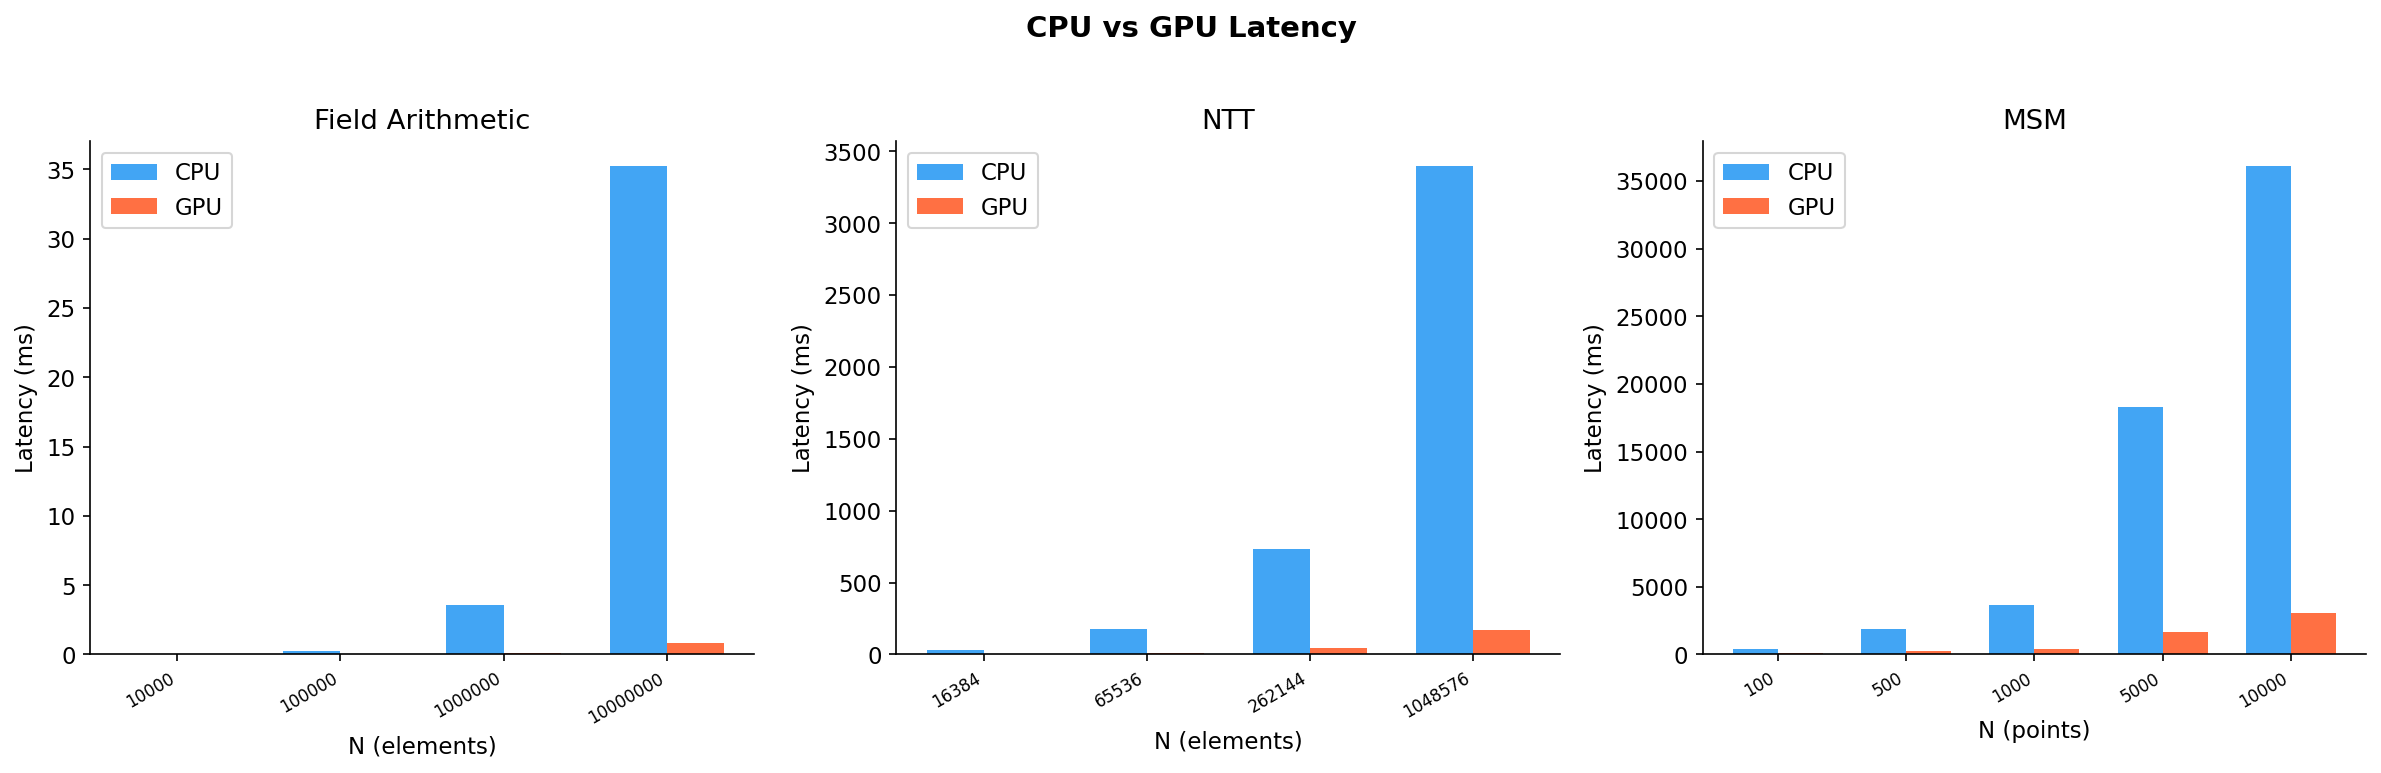
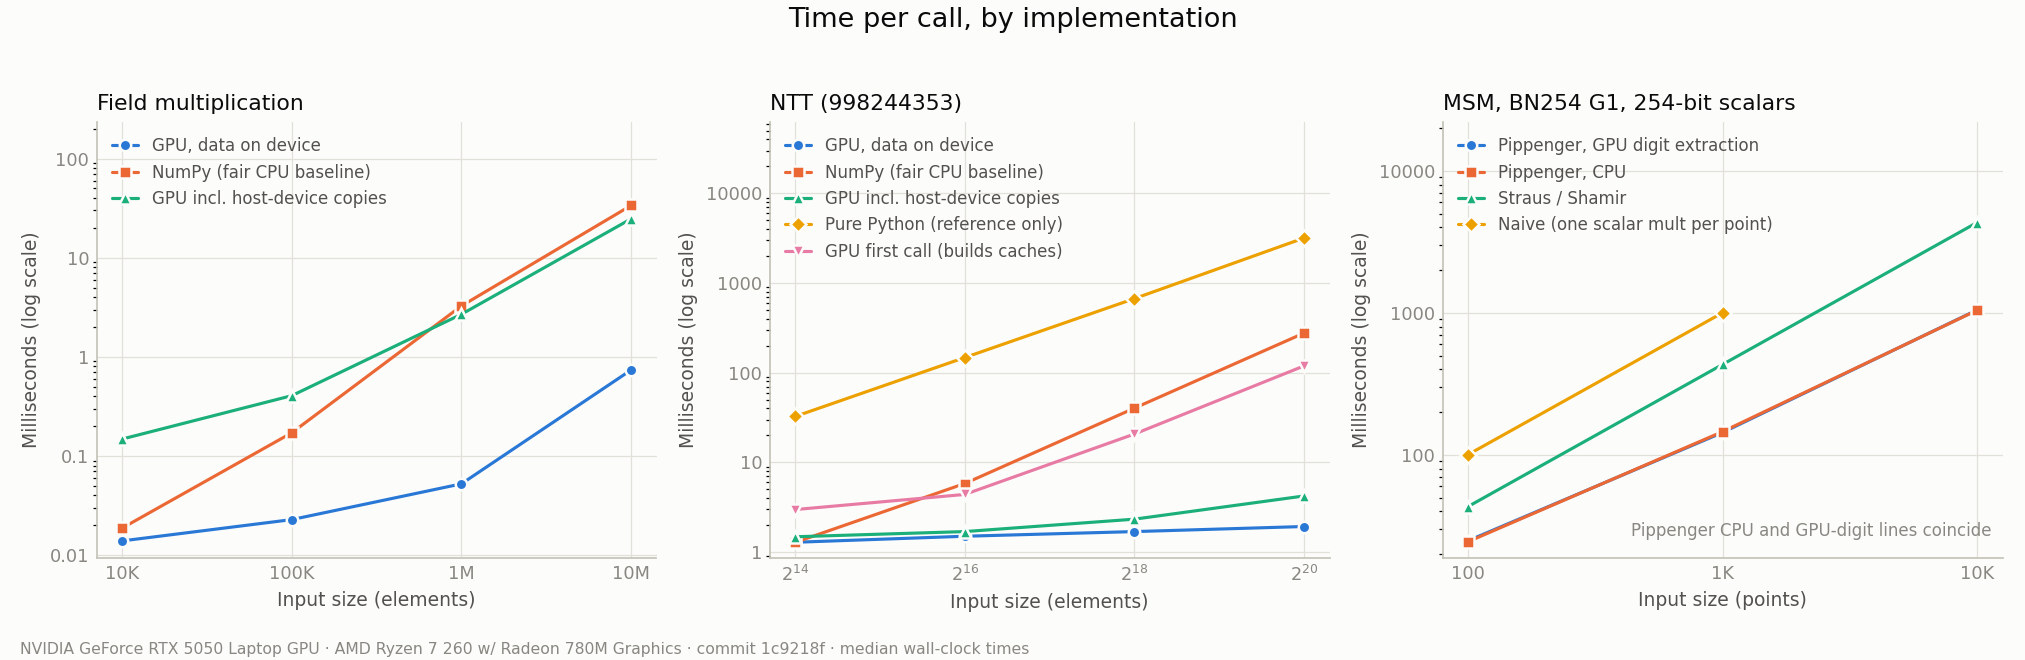
publish verified benchmark results and rewrite README claims
- Full benchmark run at 1c9218f (clean tree, AC power) committed:
  results/all_results.json plus latency and speedup charts in light and
  dark, switched by GitHub theme with <picture>
- README headline and benchmark tables generated from the JSON: NTT 2^20
  143.5x (65.5x incl. copies), field 10M 45.7x (1.4x), MSM GPU
  contribution 1.0x; run-to-run variation stated
- Old claims removed (NTT 20x, "GPU" MSM 12x, "up to 45x"); new Scope
  and limits section: 64-bit kernels only, MSM gains are algorithmic,
  NumPy is fair but not the fastest CPU code
- Unsourced prover-time percentages replaced; stale notes fixed (Straus
  2.3x, benchmarking method, project tree)
- Charts: legend headroom and label backing fix two collisions; stale
  throughput.png deleted
- run_all writes LF JSON on every OS, matching .gitattributes

diff --git a/benchmarks/plot_results.py b/benchmarks/plot_results.py
@@ -143,10 +143,19 @@ def _set_size_ticks(ax: Axes, sizes: list[int], bench: str) -> None:
     ax.xaxis.set_minor_locator(NullLocator())
 
 
-def _legend(ax: Axes, theme: dict[str, Any]) -> None:
+def _series_count(ax: Axes) -> int:
     # Count data series only: reference lines carry matplotlib's "_child" labels
-    series = [line for line in ax.get_lines() if not line.get_label().startswith("_")]
-    if len(series) >= 2:  # one series needs no legend: the panel title names it
+    return sum(not line.get_label().startswith("_") for line in ax.get_lines())
+
+
+def _legend_headroom(ax: Axes, entries: int) -> None:
+    """Raise a log y-axis's top so an upper-left legend of *entries* rows clears the data."""
+    lo, hi = ax.get_ylim()
+    ax.set_ylim(lo, hi * (hi / lo) ** (0.06 * entries))
+
+
+def _legend(ax: Axes, theme: dict[str, Any]) -> None:
+    if _series_count(ax) >= 2:  # one series needs no legend: the panel title names it
         leg = ax.legend(loc="upper left", frameon=False, fontsize=8, handlelength=1.6)
         for text in leg.get_texts():
             text.set_color(theme["ink_secondary"])
@@ -200,6 +209,8 @@ def plot_latency(results: dict[str, Any], theme: dict[str, Any]) -> Any:
         if sizes:
             _set_size_ticks(ax, sizes, bench)
         ax.set_yscale("log")
+        if _series_count(ax) >= 2:
+            _legend_headroom(ax, _series_count(ax))
         ax.yaxis.set_major_locator(LogLocator(base=10))
         ax.yaxis.set_minor_formatter(NullFormatter())
         ax.yaxis.set_major_formatter(FuncFormatter(lambda v, _: f"{v:g}"))
@@ -284,6 +295,8 @@ def _direct_label_endpoints(ax: Axes, theme: dict[str, Any], plotted: list[list[
             va="center",
             fontsize=8,
             color=theme["ink_secondary"],
+            # A ~1x end sits on the 1x reference line; the backing keeps the line out of the text
+            bbox={"boxstyle": "square,pad=0.15", "facecolor": theme["surface"], "edgecolor": "none"},
         )
 
 

diff --git a/benchmarks/run_all.py b/benchmarks/run_all.py
@@ -38,7 +38,8 @@ def run(*, quick: bool, output: Path) -> dict[str, Any]:
         print(f"    done in {time.perf_counter() - t0:.1f} s")
 
     output.parent.mkdir(parents=True, exist_ok=True)
-    output.write_text(json.dumps(results, indent=2) + "\n", encoding="utf-8")
+    # newline="\n": the same bytes on every OS, matching .gitattributes (eol=lf)
+    output.write_text(json.dumps(results, indent=2) + "\n", encoding="utf-8", newline="\n")
     print_summary(results)
     print(f"\nResults saved to {output}")
     return results

diff --git a/README.md b/README.md
@@ -5,36 +5,47 @@
 [![License: MIT](https://img.shields.io/badge/License-MIT-yellow.svg)](LICENSE)
 
 
-> GPU-accelerated primitives for Zero-Knowledge proof generation (NTT + MSM) using NVIDIA CUDA via CuPy.
+> The building blocks of a zero-knowledge prover (BN254 field and curve arithmetic, NTT, MSM) in Python, with CUDA kernels (via CuPy) for modular arithmetic and the NTT, and benchmarks that measure what the GPU actually buys.
 
-![Speedup curve](results/speedup_curve.png)
-![Latency comparison](results/latency_comparison.png)
-![Throughput](results/throughput.png)
+<picture>
+  <source media="(prefers-color-scheme: dark)" srcset="results/speedup_curve_dark.png">
+  <img alt="GPU speedup over CPU code running the same algorithm. Field multiplication: 45.7x with data on the GPU, 1.4x including copies, at 10M elements. NTT: 143.5x and 65.5x at 2^20. MSM Pippenger: 1.0x at every size." src="results/speedup_curve.png">
+</picture>
 
 ---
 
 ## What this does
 
-Accelerates the two most expensive operations in ZK proof generation using NVIDIA CUDA, achieving **up to 45x speedup** over pure CPU:
+The two most expensive steps of a Groth16 or PLONK prover are the MSM and the NTT. This project implements both, plus the field arithmetic underneath them. It also measures each GPU path against CPU code that runs the same algorithm, and checks every result.
 
-| Operation | ZK Usage | CPU Algorithm | GPU Algorithm | Peak Speedup |
-|---|---|---|---|---|
-| **NTT** | Polynomial multiplication (PLONK, Groth16) | Cooley-Tukey iterative | Parallel butterfly (CuPy kernel) | **20x** |
-| **MSM** | Linear combinations of EC points (Groth16) | Naive (per-point double-and-add) | Pippenger (CPU buckets) + GPU window extraction | **12x** |
-| **Field** | Modular arithmetic building block | NumPy vectorized | CuPy ElementwiseKernel | **45x** |
+| Operation | ZK usage | What runs on the GPU | GPU speedup at the largest size measured |
+|---|---|---|---|
+| **Field multiplication** | Building block of everything else | The whole operation (CuPy kernel), for moduli below 2⁶³ | **45.7x** with data on the GPU, **1.4x** including copies (10M elements) |
+| **NTT** | Polynomial arithmetic (Groth16, PLONK) | Every butterfly stage, for moduli below 2⁶³ | **143.5x** with data on the GPU, **65.5x** including copies (2²⁰ elements) |
+| **MSM**, BN254 G1 | Groth16's linear combinations of curve points | Only the window-digit extraction | **1.0x** (10,000 points); all curve arithmetic is Python on the CPU |
 
-Tested on: **NVIDIA GeForce RTX 5050 Laptop GPU** (Compute Capability 12.0, 8 GB VRAM)
+Measured on an NVIDIA GeForce RTX 5050 Laptop GPU against NumPy on an AMD Ryzen 7 260; see [Benchmark results](#benchmark-results).
+
+### Scope and limits
+
+This is a tested prototype, not yet a GPU prover for BN254:
+
+- **The GPU kernels use 64-bit integers**, so they work over primes below 2⁶³; the benchmarks use 998244353. BN254's scalar field is 254 bits wide, so its NTT (`Radix2Domain`) currently runs on the CPU.
+- **The MSM gains are algorithmic.** Pippenger is 6.9x faster than the naive method at 1,000 points, and Jacobian coordinates made every MSM 18–28x faster. The GPU contributes nothing measurable yet.
+- **The baselines are fair, but they are not the fastest CPU code possible.** Each GPU path is compared with NumPy running the same algorithm, which is the right comparison for this package. Optimised native libraries (C++/Rust, multithreaded) would be considerably faster than NumPy and would shrink these ratios.
+
+The next step is 254-bit Montgomery arithmetic written in CUDA, which moves BN254's NTT and MSM point arithmetic onto the GPU.
 
 ---
 
 ## Background
 
-ZK proofs (Groth16, PLONK) spend **80–90% of prover time** in two operations:
+Most of a Groth16 or PLONK prover's time goes into two operations:
 
-- **MSM** (Multi-Scalar Multiplication) — given vectors of EC points P₁…Pₙ and scalars s₁…sₙ, compute Σ sᵢPᵢ. Accounts for ~**65%** of total proving time.
-- **NTT** (Number Theoretic Transform) — the FFT over a finite field, used for polynomial multiplication in the constraint system. Accounts for ~**22%** of total proving time.
+- **MSM** (multi-scalar multiplication): given curve points P₁…Pₙ and scalars s₁…sₙ, compute Σ sᵢPᵢ. It usually dominates proving time.
+- **NTT** (number-theoretic transform): the FFT over a finite field, used to multiply and divide the constraint polynomials.
 
-Both are *embarrassingly parallel* → ideal for GPU acceleration.
+Both apply the same operation to millions of independent values at each step: every butterfly within an NTT stage, and every point within an MSM window. That is why GPU provers target them.
 
 **Curve**: BN254 (aka alt_bn128) — the curve used by Ethereum's zkSNARK precompile.
 - Base field prime: `p = 21888242871839275222246405745257275088696311157297823662689037894645226208583`
@@ -42,37 +53,67 @@ Both are *embarrassingly parallel* → ideal for GPU acceleration.
 
 ---
 
-## Benchmark Results
+## Benchmark results
 
-> Hardware: NVIDIA GeForce RTX 5050 Laptop GPU | CUDA 12.8 | Python 3.13
+<picture>
+  <source media="(prefers-color-scheme: dark)" srcset="results/latency_comparison_dark.png">
+  <img alt="Time per call by implementation, log scales. Field multiplication: the GPU with data on the device is fastest, while the GPU including copies roughly matches NumPy from 1M elements up. NTT: GPU time stays near 1-4 ms up to 2^20, against 277 ms for NumPy and 3.2 s for pure Python. MSM: Pippenger is fastest, and its CPU and GPU-digit lines coincide." src="results/latency_comparison.png">
+</picture>
 
-### Field Arithmetic (modular multiplication, MOD = 998244353)
+> Measured at commit `1c9218f` with a clean working tree, on AC power. **GPU:** NVIDIA GeForce RTX 5050 Laptop GPU (compute capability 12.0, 8 GiB), CUDA runtime 12.9, CuPy 14.0.1. **CPU:** AMD Ryzen 7 260 (16 logical cores). **Software:** Windows 11, Python 3.13.9, NumPy 2.3.4. The raw numbers and full metadata are in [`results/all_results.json`](results/all_results.json).
 
-| N | CPU (ms) | GPU (ms) | Speedup | GPU Throughput |
-|---|---|---|---|---|
-| 10,000 | 0.04 | 0.02 | 2.1x | 526 M ops/s |
-| 100,000 | 0.23 | 0.03 | 8.4x | 3,704 M ops/s |
-| 1,000,000 | 3.56 | 0.08 | **45.1x** | 12,658 M ops/s |
-| 10,000,000 | 35.27 | 0.84 | **42.1x** | 11,947 M ops/s |
+How to read the tables:
 
-### NTT — Cooley-Tukey (MOD = 998244353)
+- **GPU** means the input is already on the GPU and the output stays there. That is the cost for a prover that keeps its data on the device.
+- **GPU + copies** means the input starts in host memory and the output is copied back.
+- Every time is a median in milliseconds, and every implementation's output was checked against a reference before its time was accepted (see [Method](#method)).
+- The largest sizes are stable to within about 10% between runs. The smallest sizes, where single calls take microseconds, can vary by up to 2x: field multiplication at 100,000 elements measured between 7.5x (the run below) and 14.0x in four runs.
 
-| N | CPU (ms) | GPU (ms) | Speedup | GPU Throughput |
-|---|---|---|---|---|
-| 2¹⁴ = 16,384 | 34.1 | 5.6 | 6.1x | 2.91 M elem/s |
-| 2¹⁶ = 65,536 | 174.8 | 11.6 | 15.0x | 5.63 M elem/s |
-| 2¹⁸ = 262,144 | 733.5 | 44.6 | 16.4x | 5.88 M elem/s |
-| 2²⁰ = 1,048,576 | 3,400.9 | 166.8 | **20.4x** | 6.29 M elem/s |
+### Field multiplication (mod 998244353)
 
-### MSM — BN254 G1 (Pippenger window=8 on GPU)
+| N | NumPy (ms) | GPU (ms) | GPU + copies (ms) | GPU speedup | With copies |
+|---:|---:|---:|---:|---:|---:|
+| 10,000 | 0.019 | 0.014 | 0.148 | 1.3x | 0.13x |
+| 100,000 | 0.171 | 0.023 | 0.406 | 7.5x | 0.42x |
+| 1,000,000 | 3.26 | 0.052 | 2.69 | 62.4x | 1.2x |
+| 10,000,000 | 33.7 | 0.737 | 24.7 | 45.7x | 1.4x |
 
-| N | CPU (ms) | GPU (ms) | Speedup | Mem Transfer |
-|---|---|---|---|---|
-| 100 | 367.1 | 119.2 | 3.1x | 0.10 ms |
-| 500 | 1,862.0 | 247.1 | 7.5x | 0.10 ms |
-| 1,000 | 3,652.3 | 414.2 | 8.8x | 0.11 ms |
-| 5,000 | 18,256.2 | 1,662.4 | 11.0x | 0.11 ms |
-| 10,000 | 36,139.6 | 3,093.4 | **11.7x** | 0.17 ms |
+One multiplication per element is too little work to pay for moving the data, so even at 10 million elements the GPU including copies is only 1.4x faster. Field kernels pay off inside a longer computation whose data stays on the GPU.
+
+### NTT (radix-2 Cooley-Tukey, mod 998244353)
+
+| N | Pure Python (ms) | NumPy (ms) | GPU (ms) | GPU + copies (ms) | GPU first call (ms) | GPU speedup | With copies |
+|---:|---:|---:|---:|---:|---:|---:|---:|
+| 2¹⁴ | 32.5 | 1.28 | 1.29 | 1.48 | 2.98 | 1.00x | 0.86x |
+| 2¹⁶ | 148 | 5.82 | 1.50 | 1.69 | 4.40 | 3.9x | 3.4x |
+| 2¹⁸ | 671 | 40.3 | 1.69 | 2.33 | 20.7 | 23.8x | 17.3x |
+| 2²⁰ | 3,182 | 277 | 1.93 | 4.23 | 119 | 143.5x | 65.5x |
+
+- **The GPU time hardly grows** between 2¹⁴ and 2²⁰. It costs a near-constant 0.09–0.10 ms per butterfly stage, and there are log₂ N stages. Each stage dispatches about six separate kernels from Python, so the time goes into that per-stage overhead rather than arithmetic. A single fused kernel would remove most of it.
+- **The first call for each size** builds the twiddle table and bit-reversal index on the GPU and caches them; later calls reuse them. The NumPy baseline caches its tables the same way.
+- **Pure Python** (`zkgpu.ntt.ntt`) is shown for scale and as the reference result, not as a baseline.
+
+### MSM (BN254 G1, uniformly random 254-bit scalars)
+
+| N | Window | Naive (ms) | Straus/Shamir (ms) | Pippenger, CPU (ms) | Pippenger, GPU digits (ms) | GPU contribution |
+|---:|---:|---:|---:|---:|---:|---:|
+| 100 | 5 | 100 | 43.3 | 24.5 | 24.9 | 0.98x |
+| 1,000 | 7 | 1,001 | 433 | 146 | 144 | 1.0x |
+| 10,000 | 10 | — | 4,321 | 1,042 | 1,047 | 0.99x |
+
+- **All the point arithmetic is Python integers on the CPU, in every column.** The differences between columns are algorithmic. Pippenger is 4.1x faster than naive at 100 points and 6.9x at 1,000, and it is 4.1x faster than Straus/Shamir at 10,000.
+- **The window size** follows Pippenger's cost model for each N. A fixed w = 8 would make it look slower than it is at small N.
+- **Moving digit extraction to the GPU changes nothing** (0.98–1.0x, within noise), because the bucket accumulation (point additions) dominates the cost.
+- **Naive is skipped at 10,000 points.** It costs a steady 1.0 ms per point, so about 10 s.
+
+### Method
+
+- Each implementation is timed as the median of repeated calls after one untimed warm-up call, within a time budget.
+- If the median exceeds 1.25x the fastest sample, a sign of interference from other processes, the measurement is repeated, up to three attempts.
+- GPU timings synchronise the device before the clock stops.
+- The NumPy NTT is the same algorithm as the GPU version, vectorised one stage at a time, with the same per-size caches.
+
+The details are in `benchmarks/_harness.py`. To reproduce on your own machine, see [Run benchmarks](#run-benchmarks).
 
 ---
 
@@ -313,11 +354,12 @@ zk-gpu-accelerator/
 │   ├── msm.py             # MSM CPU — naive + Straus/Shamir double-and-add
 │   └── msm_gpu.py         # MSM — Pippenger (CPU buckets) + GPU window extraction
 ├── benchmarks/
+│   ├── _harness.py        # timing method, result checks, run metadata
 │   ├── bench_field.py
-│   ├── bench_ntt.py
+│   ├── bench_ntt.py       # includes the NumPy NTT baseline
 │   ├── bench_msm.py
-│   ├── run_all.py
-│   └── plot_results.py
+│   ├── run_all.py         # runs all three, writes one JSON file
+│   └── plot_results.py    # charts, light and dark
 ├── tests/
 │   ├── known_bugs.py        # Strict-xfail marker for documented, unfixed bugs
 │   ├── test_field.py        # Fp arithmetic (CPU)
@@ -326,12 +368,13 @@ zk-gpu-accelerator/
 │   ├── test_ntt.py          # NTT across moduli, roots-of-unity known answer, GPU
 │   ├── test_domain.py       # domains: snarkjs/arkworks roots, cosets, Groth16 quotient
 │   ├── test_msm.py          # naive / Shamir / Pippenger MSM, GPU + fallback paths
-│   └── test_gpu_backend.py  # GPU detection reports why it is disabled
+│   ├── test_gpu_backend.py  # GPU detection reports why it is disabled
+│   └── test_benchmarks.py   # harness runs end to end; baselines match references
 ├── scripts/
 │   └── check_gpu.py   # Layer-by-layer GPU setup diagnostic
 ├── demo/
 │   └── prover_simulation.py
-└── results/           # auto-generated JSON + PNG charts
+└── results/           # the benchmark run quoted above: JSON + charts (light and dark)
 ```
 
 The `src/` layout means the code is only importable once installed (`pip install -e .`), so tests always exercise the package as users get it rather than whatever happens to be in the working directory.
@@ -342,11 +385,11 @@ The `src/` layout means the code is only importable once installed (`pip install
 
 - **Field**: BN254 scalar field (r ≈ 2²⁵⁴). All Fp ops use Python's built-in `pow()` for fast modular exponentiation. The GPU field ops (`zkgpu/field_gpu.py`) accept any modulus `2 ≤ mod < 2⁶³` and any int64 inputs, which they reduce first. Products use a plain int64 multiply up to `mod ≤ 3,037,000,500`, and an exact 128-bit-wide routine above that, built on `__umul64hi` because NVRTC on Windows has no `__int128`. The GPU benchmark uses `MOD = 998244353`.
 - **NTT**: Cooley-Tukey iterative with bit-reversal permutation. The default modulus is `998244353 = 119·2²³ + 1` (N ≤ 2²³), but any odd prime works up to its 2-adicity, including BN254's scalar field r (2-adicity 28, N ≤ 2²⁸). Roots of unity come from the field's smallest quadratic non-residue, which yields primitive power-of-two roots without factoring p − 1, and every root is checked to be primitive. The GPU version (`zkgpu/ntt_gpu.py`) handles primes below 2⁶³: it caches its twiddle table and bit-reversal index on the device for each size, and uses `zkgpu/field_gpu.py` for exact modular arithmetic. BN254's r does not fit in int64, so it is CPU-only for now.
-- **MSM**: Naive and Straus/Shamir simultaneous double-and-add on CPU (one shared accumulator: ~254 doublings in total instead of N·254, about 3× faster than naive for 254-bit scalars); Pippenger bucket method: scalars are reduced mod r and split into four 64-bit limbs, one GPU kernel extracts every window digit at once (a single device-to-host copy), and bucket accumulation plus Horner's-rule window combination (~254 doublings) stay on the CPU. All BN254 point arithmetic uses Python's arbitrary-precision integers (254-bit coordinates).
+- **MSM**: Naive and Straus/Shamir simultaneous double-and-add on CPU (one shared accumulator: ~254 doublings in total instead of N·254, 2.3× faster than naive for 254-bit scalars in the benchmark above); Pippenger bucket method: scalars are reduced mod r and split into four 64-bit limbs, one GPU kernel extracts every window digit at once (a single device-to-host copy), and bucket accumulation plus Horner's-rule window combination (~254 doublings) stay on the CPU. All BN254 point arithmetic uses Python's arbitrary-precision integers (254-bit coordinates).
 - **Curve arithmetic**: `Point` is affine, but scalar multiplication and every MSM run in Jacobian coordinates (X, Y, Z) ↦ (X/Z², Y/Z³). Those additions and doublings need no modular inverse, so a whole chain of operations pays for one inverse at the end, when converting back. The formulas are the Explicit-Formulas Database's a = 0 versions (`dbl-2009-l`, `add-2007-bl`, `madd-2007-bl`). Remaining inverses use `pow(a, -1, p)` (extended Euclid, about 42 multiplications) instead of Fermat's `a^(p−2)` (about 251). Together these made scalar multiplication about 30× faster and the MSMs 18–28× faster than affine arithmetic, with identical results. Every result is converted back through `Point`, so it is re-validated to lie on the curve.
 - **GPU kernels**: Written with CuPy's `ElementwiseKernel` (CUDA C++ compiled at runtime via nvrtc). Works without the full CUDA Toolkit — only nvrtc is needed (bundled with PyTorch on Windows).
 - **Fallback**: GPU availability is decided once, at import, in `zkgpu/gpu_backend.py`. When it is unavailable, every GPU function falls back to NumPy/CPU and emits a `GpuFallbackWarning` naming the reason, so no code changes are needed on CPU-only machines.
-- **Benchmarking**: Median of 3 runs; first GPU run discarded (CuPy JIT warmup).
+- **Benchmarking**: See [Method](#method). Kernels are compiled before any timing starts, so the timings never include CuPy's JIT compilation.
 
 ---
 
